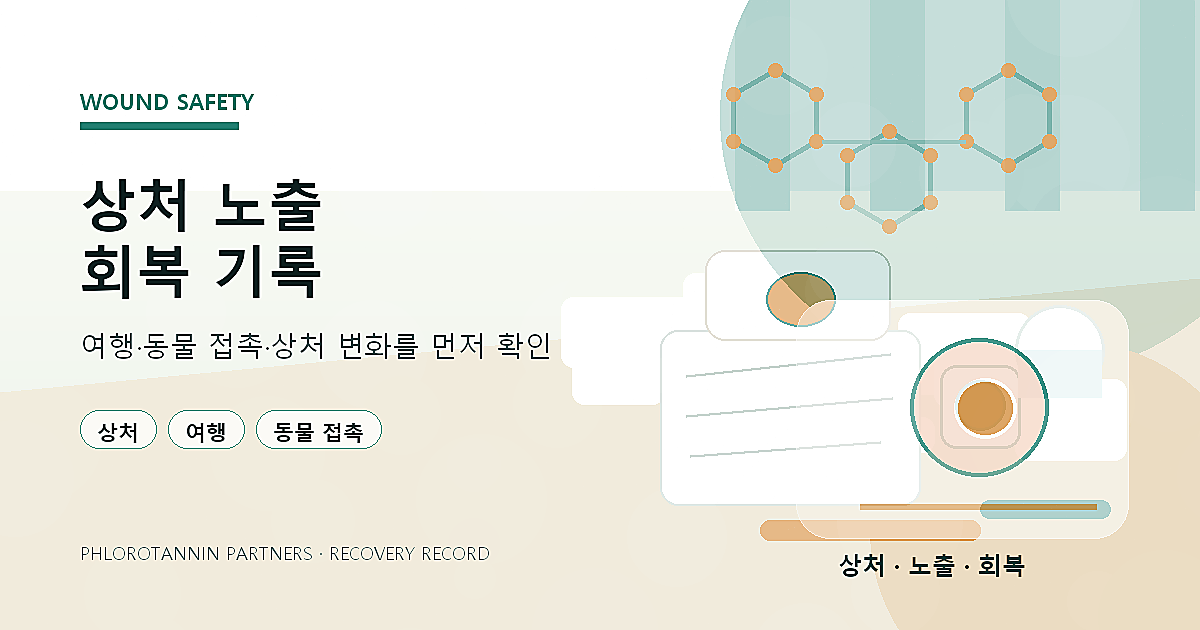
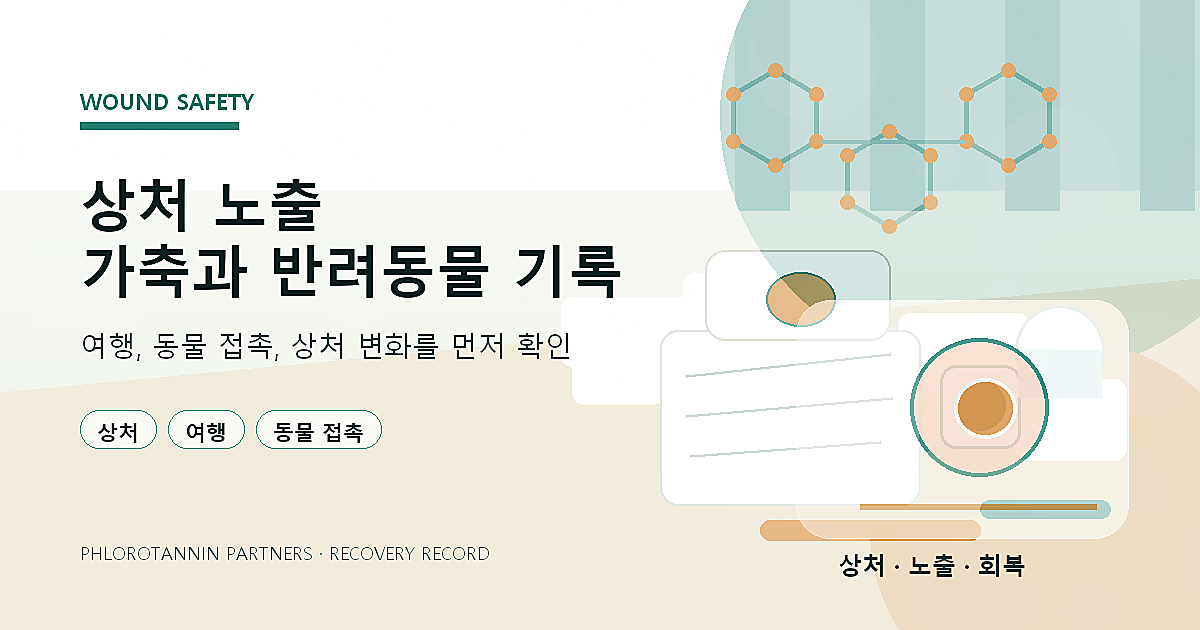
Fix recent visual asset deployment size

Changed region(s): [[0.0617, 0.3921, 0.4008, 0.4825], [0.1233, 0.5127, 0.4933, 0.573], [0.4317, 0.3921, 0.5242, 0.4825]]

diff --git a/hanain/scripts/refresh_recent_health_visuals.py b/hanain/scripts/refresh_recent_health_visuals.py
@@ -265,11 +265,11 @@ def add_photo_grain(img, seed):
     rng = random.Random(seed)
     layer = Image.new("RGBA", (W, H), (0, 0, 0, 0))
     draw = ImageDraw.Draw(layer, "RGBA")
-    for _ in range(1600):
+    for _ in range(7200):
         x = rng.randrange(W)
         y = rng.randrange(H)
-        v = rng.randrange(225, 255)
-        draw.point((x, y), fill=(v, v, v, rng.randrange(4, 16)))
+        v = rng.randrange(208, 255)
+        draw.point((x, y), fill=(v, v, v, rng.randrange(6, 22)))
     for _ in range(70):
         x = rng.randrange(-80, W)
         y = rng.randrange(-80, H)
@@ -391,7 +391,151 @@ def make(item):
     out = Image.alpha_composite(img, overlay).convert("RGB")
     out = out.filter(ImageFilter.UnsharpMask(radius=1.1, percent=115, threshold=3))
     OUT.mkdir(parents=True, exist_ok=True)
-    out.save(OUT / f"{item['slug']}.png", "PNG", optimize=False, compress_level=0)
+    out.save(OUT / f"{item['slug']}.png", "PNG", optimize=False, compress_level=1)
+
+
+ASSETS = [
+    {
+        "slug": "pertussis-whooping-cough-tdap-infant-exposure-recovery-phlorotannin-2026",
+        "kicker": "RESPIRATORY RECOVERY",
+        "title": ["백일해 기침", "가족 회복 기록"],
+        "subtitle": "기침 주차, Tdap, 영아 노출과 호흡 회복",
+        "chips": ["기침", "Tdap", "영아 노출"],
+        "accent": (42, 96, 148),
+        "warm": (229, 164, 82),
+        "motif": "respiratory",
+    },
+    {
+        "slug": "legionnaires-disease-hotel-hot-tub-pneumonia-recovery-phlorotannin-2026",
+        "kicker": "TRAVEL PNEUMONIA",
+        "title": ["레지오넬라", "여행 호흡 기록"],
+        "subtitle": "호텔, 온수 시설, 기침과 발열 회복 점검",
+        "chips": ["여행", "기침", "온수 시설"],
+        "accent": (31, 111, 130),
+        "warm": (224, 160, 82),
+        "motif": "respiratory",
+    },
+    {
+        "slug": "leptospirosis-floodwater-hurricane-rodent-urine-recovery-phlorotannin-2026",
+        "kicker": "FLOODWATER EXPOSURE",
+        "title": ["홍수물 노출", "상처와 발열 기록"],
+        "subtitle": "침수, 피부 상처, 발열 변화를 함께 확인",
+        "chips": ["홍수물", "상처", "발열"],
+        "accent": (44, 122, 104),
+        "warm": (222, 154, 76),
+        "motif": "wound",
+    },
+    {
+        "slug": "naegleria-warm-freshwater-nasal-exposure-neuro-recovery-phlorotannin-2026",
+        "kicker": "WATER SAFETY",
+        "title": ["따뜻한 담수", "코 노출 기록"],
+        "subtitle": "두통, 발열, 목 경직 신호를 빠르게 구분",
+        "chips": ["물놀이", "코 노출", "신경 신호"],
+        "accent": (34, 102, 150),
+        "warm": (215, 153, 78),
+        "motif": "respiratory",
+    },
+    {
+        "slug": "valley-fever-dust-pneumonia-fatigue-recovery-phlorotannin-2026",
+        "kicker": "DUST & PNEUMONIA",
+        "title": ["먼지 노출", "호흡 피로 기록"],
+        "subtitle": "여행지, 기침, 피로, 상담 시점을 정리",
+        "chips": ["먼지", "호흡", "피로"],
+        "accent": (130, 90, 54),
+        "warm": (42, 135, 126),
+        "motif": "respiratory",
+    },
+    {
+        "slug": "rocky-mountain-spotted-fever-tick-rash-doxycycline-recovery-phlorotannin-2026",
+        "kicker": "TICK FEVER RECORD",
+        "title": ["진드기 발열", "노출 날짜 기록"],
+        "subtitle": "발진보다 노출일과 치료 시작일을 먼저 보기",
+        "chips": ["진드기", "발열", "발진"],
+        "accent": (85, 112, 48),
+        "warm": (218, 148, 78),
+        "motif": "wound",
+    },
+    {
+        "slug": "babesiosis-tick-red-blood-cell-fatigue-anemia-recovery-phlorotannin-2026",
+        "kicker": "TICK & BLOOD",
+        "title": ["바베시아증", "빈혈 피로 기록"],
+        "subtitle": "진드기 노출, 발열, 빈혈, 회복 이력 확인",
+        "chips": ["진드기", "빈혈", "피로"],
+        "accent": (150, 58, 78),
+        "warm": (48, 136, 128),
+        "motif": "blood",
+    },
+    {
+        "slug": "new-world-screwworm-texas-wound-larvae-pet-livestock-recovery-phlorotannin-2026",
+        "kicker": "WOUND SAFETY",
+        "title": ["상처 노출", "가축과 반려동물 기록"],
+        "subtitle": "여행, 동물 접촉, 상처 변화를 먼저 확인",
+        "chips": ["상처", "여행", "동물 접촉"],
+        "accent": (23, 121, 106),
+        "warm": (218, 153, 80),
+        "motif": "wound",
+    },
+    {
+        "slug": "infant-formula-botulism-byheart-constipation-floppy-baby-recall-recovery-phlorotannin-2026",
+        "kicker": "INFANT FORMULA",
+        "title": ["분유 리콜", "보호자 기록"],
+        "subtitle": "제품명, 수유량, 변비와 힘 빠짐 신호",
+        "chips": ["제품 확인", "수유", "보호자 회복"],
+        "accent": (42, 95, 148),
+        "warm": (232, 169, 84),
+        "motif": "formula",
+    },
+    {
+        "slug": "raw-dairy-ecoli-o157-raw-cheddar-hus-child-kidney-recovery-phlorotannin-2026",
+        "kicker": "GUT SAFETY",
+        "title": ["생유 식품", "장과 신장 기록"],
+        "subtitle": "설사, 혈변, 소변, 피로 변화를 함께 정리",
+        "chips": ["Raw dairy", "장 신호", "소변"],
+        "accent": (116, 68, 132),
+        "warm": (50, 145, 128),
+        "motif": "gut",
+    },
+    {
+        "slug": "youth-nicotine-vape-pouch-addiction-quit-recovery-phlorotannin-2026",
+        "kicker": "NICOTINE RECOVERY",
+        "title": ["청소년 니코틴", "의존 신호 기록"],
+        "subtitle": "갈망, 수면, 불안, 호흡 회복 루틴",
+        "chips": ["Vape", "갈망", "수면"],
+        "accent": (39, 96, 150),
+        "warm": (232, 168, 82),
+        "motif": "nicotine",
+    },
+    {
+        "slug": "toxic-chemical-exposure-decontamination-triage-airway-recovery-phlorotannin-2026",
+        "kicker": "CHEMICAL EXPOSURE",
+        "title": ["화학물질 노출", "제염과 호흡 기록"],
+        "subtitle": "벗기기, 씻기, 공기 확보, 도움 요청",
+        "chips": ["제염", "호흡", "응급"],
+        "accent": (25, 119, 101),
+        "warm": (210, 145, 76),
+        "motif": "chemical",
+    },
+    {
+        "slug": "world-blood-donor-day-2026-iron-hydration-recovery-phlorotannin-2026",
+        "kicker": "BLOOD DONOR DAY",
+        "title": ["헌혈 전후", "회복 기록"],
+        "subtitle": "철분, 수분, 피로, 운동 복귀를 같이 보기",
+        "chips": ["헌혈", "철분", "수분"],
+        "accent": (155, 55, 76),
+        "warm": (52, 140, 132),
+        "motif": "blood",
+    },
+    {
+        "slug": "brucellosis-raw-dairy-hunter-lab-exposure-fatigue-recovery-phlorotannin-2026",
+        "kicker": "RAW DAIRY EXPOSURE",
+        "title": ["브루셀라 노출", "피로 회복 기록"],
+        "subtitle": "생유, 동물, 실험실 노출과 발열 피로 확인",
+        "chips": ["Raw dairy", "노출", "피로"],
+        "accent": (92, 105, 48),
+        "warm": (220, 154, 82),
+        "motif": "dairy",
+    },
+]
 
 
 def main():

diff --git a/hanain/docs/blog-og-image-quality-audit-result.md b/hanain/docs/blog-og-image-quality-audit-result.md
@@ -7,9 +7,9 @@
 
 | Status | Source | Image | Bytes | Size | Stddev | Pixel entropy | Notes |
 |---|---|---|---:|---:|---:|---:|---|
-| PASS | localTrendBlogPostsRound63.js | `/og/content-quality/new-world-screwworm-texas-wound-larvae-pet-livestock-recovery-phlorotannin-2026.png` | 2269421 | 1200x630 | 37.2 | 4.02 | premium enough |
-| PASS | localTrendBlogPostsRound63.js | `/og/content-quality/infant-formula-botulism-byheart-constipation-floppy-baby-recall-recovery-phlorotannin-2026.png` | 2269421 | 1200x630 | 39.9 | 4.04 | premium enough |
-| PASS | localTrendBlogPostsRound63.js | `/og/content-quality/raw-dairy-ecoli-o157-raw-cheddar-hus-child-kidney-recovery-phlorotannin-2026.png` | 2269421 | 1200x630 | 42.0 | 4.12 | premium enough |
-| PASS | localTrendBlogPostsRound64.js | `/og/content-quality/youth-nicotine-vape-pouch-addiction-quit-recovery-phlorotannin-2026.png` | 2269421 | 1200x630 | 40.2 | 3.94 | premium enough |
-| PASS | localTrendBlogPostsRound64.js | `/og/content-quality/toxic-chemical-exposure-decontamination-triage-airway-recovery-phlorotannin-2026.png` | 2269421 | 1200x630 | 41.1 | 4.09 | premium enough |
-| PASS | localTrendBlogPostsRound64.js | `/og/content-quality/world-blood-donor-day-2026-iron-hydration-recovery-phlorotannin-2026.png` | 2269421 | 1200x630 | 41.9 | 4.08 | premium enough |
+| PASS | localTrendBlogPostsRound63.js | `/og/content-quality/new-world-screwworm-texas-wound-larvae-pet-livestock-recovery-phlorotannin-2026.png` | 175010 | 1200x630 | 41.4 | 4.06 | premium enough |
+| PASS | localTrendBlogPostsRound63.js | `/og/content-quality/infant-formula-botulism-byheart-constipation-floppy-baby-recall-recovery-phlorotannin-2026.png` | 164458 | 1200x630 | 40.1 | 4.08 | premium enough |
+| PASS | localTrendBlogPostsRound63.js | `/og/content-quality/raw-dairy-ecoli-o157-raw-cheddar-hus-child-kidney-recovery-phlorotannin-2026.png` | 173120 | 1200x630 | 42.8 | 4.08 | premium enough |
+| PASS | localTrendBlogPostsRound64.js | `/og/content-quality/youth-nicotine-vape-pouch-addiction-quit-recovery-phlorotannin-2026.png` | 162442 | 1200x630 | 39.9 | 4.12 | premium enough |
+| PASS | localTrendBlogPostsRound64.js | `/og/content-quality/toxic-chemical-exposure-decontamination-triage-airway-recovery-phlorotannin-2026.png` | 171201 | 1200x630 | 41.6 | 4.16 | premium enough |
+| PASS | localTrendBlogPostsRound64.js | `/og/content-quality/world-blood-donor-day-2026-iron-hydration-recovery-phlorotannin-2026.png` | 157346 | 1200x630 | 41.9 | 4.08 | premium enough |
